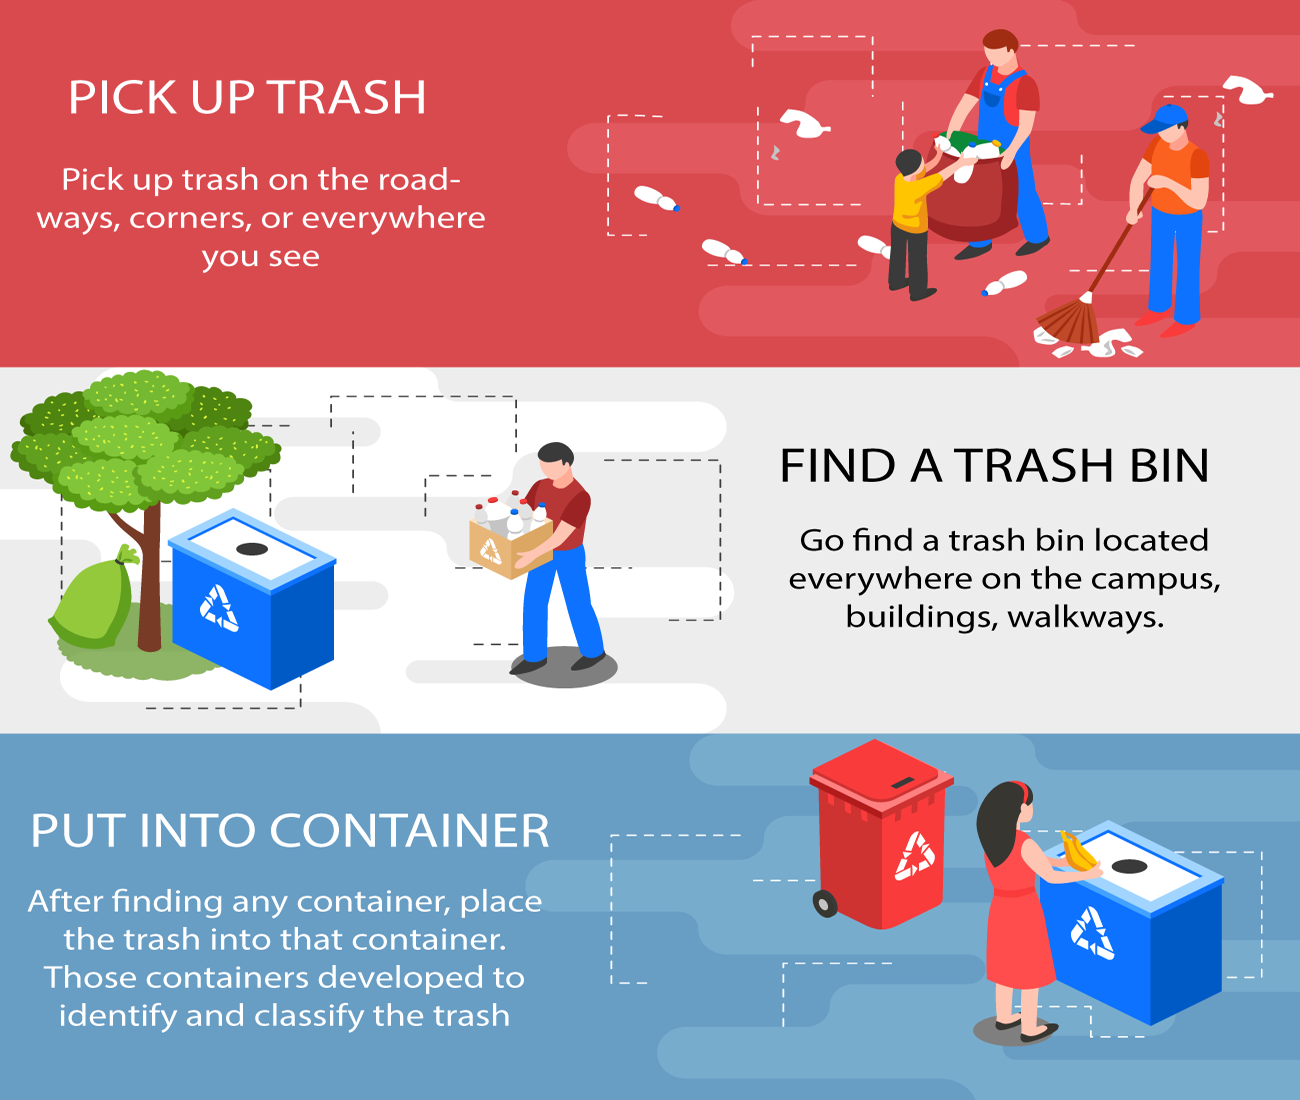
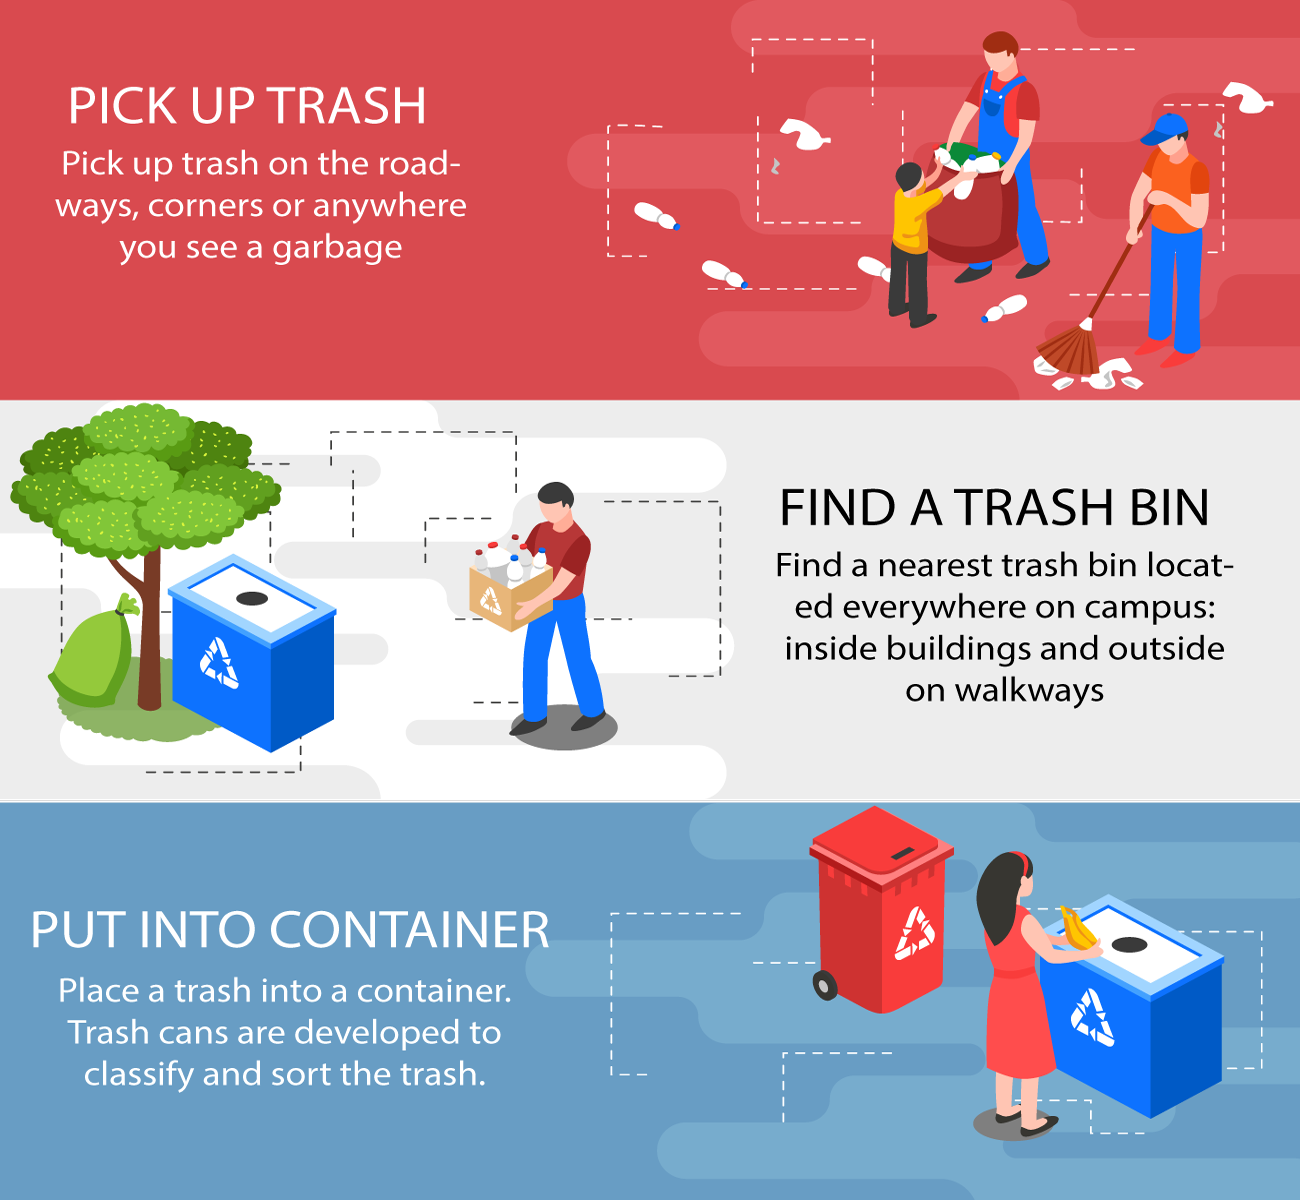
update poster + ui

diff --git a/src/components/Instruction.js b/src/components/Instruction.js
@@ -1,7 +1,6 @@
 import React, { Component } from 'react';
 import { Row, Col } from 'react-bootstrap';
 import { Fade } from 'react-reveal';
-// import { STLViewer } from 'react-stl-obj-viewer';
 import {OBJModel, MTLModel} from 'react-3d-viewer'
 import Cycle from '../assets/PReS-Cycle.png';
 import TEXT from '../en_us.json';
@@ -127,7 +126,10 @@ export default class Instruction extends Component {
     solutionView = () => (
         <Fade bottom duration={2000}>
             <h3 id='headerTitle'>{TEXT.INSTRUCTION.FIRST_TITLE}</h3>
-            <p id='solutionStyle'>{TEXT.INSTRUCTION.SOLUTION}</p>
+            <p id='contentStyle'>{TEXT.INSTRUCTION.SOLUTION1}</p>
+
+            <h3 id='headerTitle'>{TEXT.INSTRUCTION.SECOND_TITLE}</h3>
+            <p id='contentStyle1'>{TEXT.INSTRUCTION.SOLUTION2}</p>
         </Fade>
     );
 

diff --git a/src/index.scss b/src/index.scss
@@ -29,22 +29,21 @@ body {
     & #headerTitle {
       font-size: 1.8vw;
       font-weight: bold;
-      letter-spacing: 0.3rem;
+      letter-spacing: 0.1rem;
       margin-top: 10%;
       font-family: $pragati-narrow;
     }
 
     & #contentStyle {
       margin-top: 1%;
-      font-weight: bold;
+      font-weight: normal;
       font-size: 4.0vw;
     }
 
-    & #solutionStyle {
-      margin-top: 1%;
+    & #contentStyle1 {
       font-weight: normal;
       letter-spacing: 0.1rem;
-      font-size: 2.0vw;
+      font-size: 4.0vw;
     }
   }
 }
